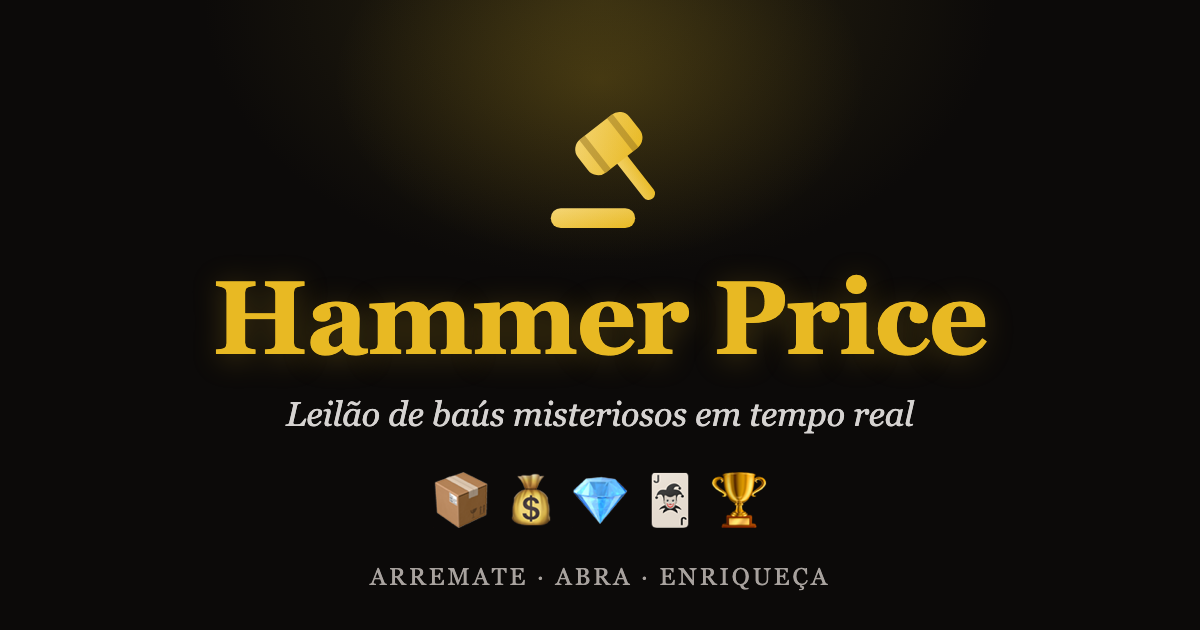
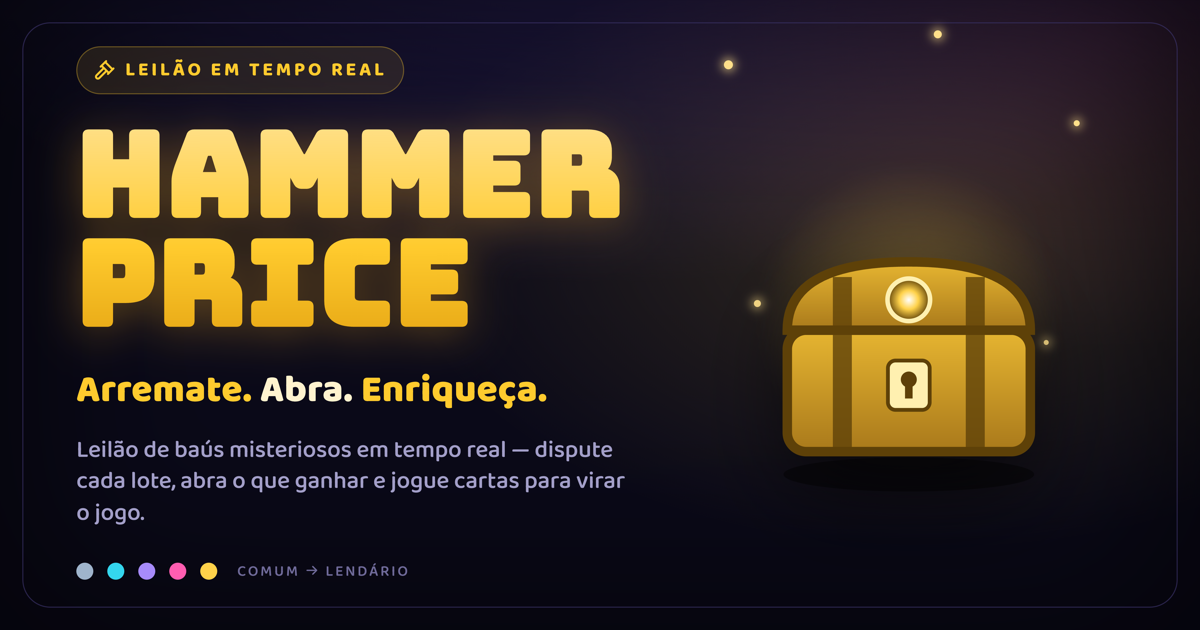
OG image repaginada na estética arcade (índigo + baú dourado)
Nova public/og.png (1200×630) no estilo do redesign: fundo índigo com brilhos violeta/rosa,
"HAMMER PRICE" em Bungee dourado, "Arremate. Abra. Enriqueça.", subtítulo, pontos de
raridade (comum → lendário) e o baú dourado com halo/brilhos. Substitui a arte antiga.

Inclui o gerador (services/frontend/og-card.source.html) — HTML autocontido renderizado a
1200×630 via headless Chrome — para regenerar/ajustar a imagem quando quiser.

diff --git a/services/frontend/og-card.source.html b/services/frontend/og-card.source.html
@@ -1,0 +1,141 @@
+<!doctype html>
+<html lang="pt-BR">
+  <head>
+    <meta charset="utf-8" />
+    <link rel="preconnect" href="https://fonts.googleapis.com" />
+    <link rel="preconnect" href="https://fonts.gstatic.com" crossorigin />
+    <link
+      href="https://fonts.googleapis.com/css2?family=Bungee&family=Baloo+2:wght@500;600;700;800&display=swap"
+      rel="stylesheet"
+    />
+    <style>
+      * { margin: 0; padding: 0; box-sizing: border-box; }
+      html, body { width: 1200px; height: 630px; }
+      body {
+        font-family: "Baloo 2", system-ui, sans-serif;
+        color: #ece9ff;
+        background:
+          radial-gradient(900px 520px at 78% 38%, rgba(255, 210, 74, 0.16), transparent 60%),
+          radial-gradient(1200px 600px at 50% -12%, rgba(124, 92, 255, 0.22), transparent 60%),
+          radial-gradient(900px 520px at 92% 6%, rgba(255, 93, 177, 0.12), transparent 60%),
+          #0a0918;
+        overflow: hidden;
+        position: relative;
+      }
+      /* vinheta nas bordas */
+      .vignette {
+        position: absolute; inset: 0;
+        box-shadow: inset 0 0 160px 40px rgba(0, 0, 0, 0.55);
+        pointer-events: none;
+      }
+      .frame {
+        position: absolute; inset: 22px;
+        border: 1.5px solid rgba(57, 49, 102, 0.7);
+        border-radius: 28px;
+        pointer-events: none;
+      }
+      .wrap {
+        position: relative; z-index: 2;
+        height: 100%;
+        display: flex; align-items: center;
+        padding: 0 76px;
+        gap: 28px;
+      }
+      .left { flex: 1; min-width: 0; }
+      .eyebrow {
+        display: inline-flex; align-items: center; gap: 10px;
+        font-weight: 700; font-size: 19px; letter-spacing: 0.16em;
+        text-transform: uppercase; color: #ffcb2e;
+        background: rgba(255, 203, 46, 0.1);
+        border: 1px solid rgba(255, 203, 46, 0.32);
+        padding: 8px 16px; border-radius: 999px;
+      }
+      .gavel { width: 22px; height: 22px; }
+      h1 {
+        font-family: "Bungee", sans-serif;
+        font-size: 118px; line-height: 0.92; letter-spacing: 0.01em;
+        margin: 26px 0 0;
+        background: linear-gradient(180deg, #ffe08a 0%, #ffcb2e 58%, #e8a916 100%);
+        -webkit-background-clip: text; background-clip: text; color: transparent;
+        filter: drop-shadow(0 6px 22px rgba(255, 180, 40, 0.35));
+      }
+      .tagline {
+        font-weight: 800; font-size: 38px; margin-top: 22px; color: #fff3cf;
+        letter-spacing: 0.01em;
+      }
+      .tagline b { color: #ffcb2e; }
+      .sub {
+        font-size: 24px; color: #a39fc9; margin-top: 14px; max-width: 560px;
+        line-height: 1.32;
+      }
+      .dots { display: flex; gap: 14px; margin-top: 30px; align-items: center; }
+      .dot { width: 17px; height: 17px; border-radius: 999px; }
+      .dots span.lbl { font-size: 15px; color: #6f6a99; letter-spacing: 0.14em; text-transform: uppercase; margin-left: 6px; }
+
+      /* baú à direita, com halo e brilhos */
+      .right { position: relative; width: 430px; height: 100%; display: flex; align-items: center; justify-content: center; }
+      .halo {
+        position: absolute; width: 430px; height: 430px; border-radius: 999px;
+        background: radial-gradient(closest-side, rgba(255, 210, 74, 0.34), transparent 70%);
+        filter: blur(6px);
+      }
+      .crate { position: relative; width: 380px; height: 380px; filter: drop-shadow(0 26px 40px rgba(0, 0, 0, 0.55)); }
+      .spark { position: absolute; border-radius: 999px; background: #ffe08a; box-shadow: 0 0 10px 2px rgba(255, 224, 138, 0.8); }
+    </style>
+  </head>
+  <body>
+    <div class="vignette"></div>
+    <div class="frame"></div>
+    <div class="wrap">
+      <div class="left">
+        <div class="eyebrow">
+          <svg class="gavel" viewBox="0 0 24 24" fill="none" stroke="#ffcb2e" stroke-width="2.2" stroke-linecap="round" stroke-linejoin="round"><path d="m14 13-7.5 7.5a2.12 2.12 0 1 1-3-3L11 10"/><path d="m16 16 6-6"/><path d="m8 8 6-6"/><path d="m9 7 8 8"/><path d="m21 11-8-8"/></svg>
+          Leilão em tempo real
+        </div>
+        <h1>HAMMER<br />PRICE</h1>
+        <div class="tagline"><b>Arremate.</b> Abra. <b>Enriqueça.</b></div>
+        <div class="sub">Leilão de baús misteriosos em tempo real — dispute cada lote, abra o que ganhar e jogue cartas para virar o jogo.</div>
+        <div class="dots">
+          <div class="dot" style="background:#9fb4cc"></div>
+          <div class="dot" style="background:#34d6ee"></div>
+          <div class="dot" style="background:#a78bfa"></div>
+          <div class="dot" style="background:#ff5db1"></div>
+          <div class="dot" style="background:#ffd24a"></div>
+          <span class="lbl">comum → lendário</span>
+        </div>
+      </div>
+      <div class="right">
+        <div class="halo"></div>
+        <div class="spark" style="width:9px;height:9px;top:60px;left:30px"></div>
+        <div class="spark" style="width:6px;height:6px;top:120px;left:380px"></div>
+        <div class="spark" style="width:7px;height:7px;top:300px;left:60px"></div>
+        <div class="spark" style="width:5px;height:5px;top:340px;left:350px"></div>
+        <div class="spark" style="width:8px;height:8px;top:30px;left:240px"></div>
+        <svg class="crate" viewBox="0 0 100 100">
+          <defs>
+            <linearGradient id="body" x1="0" y1="0" x2="0" y2="1">
+              <stop offset="0" stop-color="#e6b531" />
+              <stop offset="1" stop-color="#a9791b" />
+            </linearGradient>
+            <radialGradient id="gem">
+              <stop offset="0" stop-color="#ffffff" />
+              <stop offset="0.45" stop-color="#ffd24a" />
+              <stop offset="1" stop-color="#5e4108" />
+            </radialGradient>
+          </defs>
+          <ellipse cx="50" cy="92" rx="33" ry="4.5" fill="rgba(0,0,0,0.45)" />
+          <rect x="18" y="54" width="64" height="32" rx="5" fill="url(#body)" stroke="#5e4108" stroke-width="2.5" />
+          <rect x="30" y="54" width="5" height="32" fill="#5e4108" opacity="0.8" />
+          <rect x="65" y="54" width="5" height="32" fill="#5e4108" opacity="0.8" />
+          <rect x="44.5" y="62" width="11" height="13" rx="2" fill="#fff0b0" stroke="#5e4108" stroke-width="1" />
+          <circle cx="50" cy="67" r="2.1" fill="#5e4108" />
+          <rect x="49" y="67.5" width="2" height="4.5" fill="#5e4108" />
+          <path d="M18 54 Q18 36 50 36 Q82 36 82 54 Z" fill="url(#body)" stroke="#5e4108" stroke-width="2.5" />
+          <rect x="30" y="40" width="5" height="14" fill="#5e4108" opacity="0.8" />
+          <rect x="65" y="40" width="5" height="14" fill="#5e4108" opacity="0.8" />
+          <circle cx="50" cy="46" r="5.6" fill="url(#gem)" stroke="#fff0b0" stroke-width="1.2" />
+        </svg>
+      </div>
+    </div>
+  </body>
+</html>

diff --git a/services/frontend/src/App.tsx b/services/frontend/src/App.tsx
@@ -1304,8 +1304,15 @@ export function App() {
                         background:
                           "radial-gradient(closest-side, rgba(255,203,46,0.20), transparent 70%)",
                       }}
-                      animate={{ opacity: [0.35, 0.8, 0.35], scale: [0.94, 1.06, 0.94] }}
-                      transition={{ repeat: Infinity, duration: 1.6, ease: "easeInOut" }}
+                      animate={{
+                        opacity: [0.35, 0.8, 0.35],
+                        scale: [0.94, 1.06, 0.94],
+                      }}
+                      transition={{
+                        repeat: Infinity,
+                        duration: 1.6,
+                        ease: "easeInOut",
+                      }}
                     />
                   </div>
                 }
@@ -1468,7 +1475,7 @@ export function App() {
               </label>
               <input
                 className={`${C.input} mt-1`}
-                placeholder="ex.: ana"
+                placeholder="ex.: Ana"
                 value={name}
                 onChange={(e) => setName(e.target.value)}
                 autoFocus={!!INVITE_PARAM}
@@ -1839,17 +1846,25 @@ export function App() {
                     <div className="text-[10px] uppercase tracking-wide text-muted flex items-center justify-center gap-1">
                       <Wallet size={11} /> Saldo
                     </div>
-                    <b className="text-gold tabular-nums">{money(wallet.balance)}</b>
+                    <b className="text-gold tabular-nums">
+                      {money(wallet.balance)}
+                    </b>
                   </div>
                   <div className="px-1">
                     <div className="text-[10px] uppercase tracking-wide text-muted flex items-center justify-center gap-1">
                       <Lock size={11} /> Reservado
                     </div>
-                    <span className="tabular-nums">{money(wallet.reserved)}</span>
+                    <span className="tabular-nums">
+                      {money(wallet.reserved)}
+                    </span>
                   </div>
                   <div className="px-1">
                     <div className="text-[10px] uppercase tracking-wide text-muted flex items-center justify-center gap-1">
-                      <CircleDollarSign size={11} className="text-emerald-400" /> Gastável
+                      <CircleDollarSign
+                        size={11}
+                        className="text-emerald-400"
+                      />{" "}
+                      Gastável
                     </div>
                     <b className="text-emerald-400 tabular-nums">
                       {money(wallet.balance - wallet.reserved)}